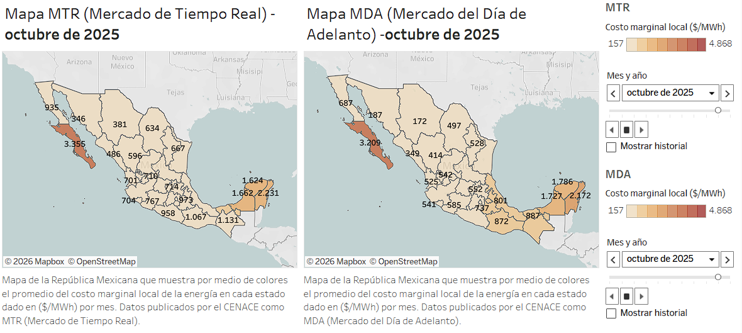
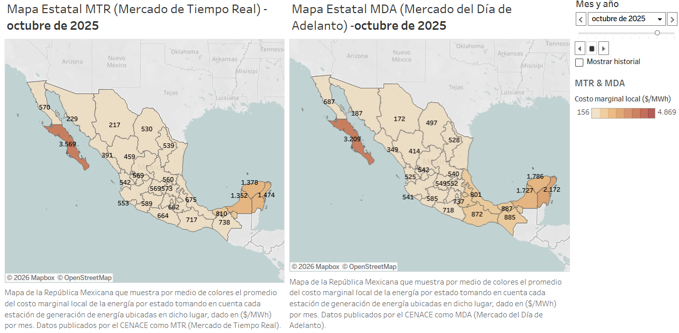
V1.0.3 Manual sin análisis temporal

diff --git a/manual.html b/manual.html
@@ -133,7 +133,6 @@
 						</div>
 						<div class="option-content">
 							<img src="/img/Estructura_WEB.svg" />
-							<br />
 							<ol>
 								<li>
 									<b>Inicio:</b> Esta es la página
@@ -190,7 +189,8 @@
 							</p>
 						</div>
 						<div class="option-content">
-							<ul>
+							<h2>Nivel Estatal</h2>
+							<ul class="manual-sublist">
 								<li>
 									<b>Objetivo:</b> Comparar los precios
 									de la energía del MTR y MDA por mes en
@@ -225,19 +225,72 @@
 								<li>
 									<b>Instrucciones de uso:</b> En la
 									parte derecha del dashboard se
-									encuentran dos filtros que modifican el
-									periodo de observación dado por Mes y
-									Año; el filtro superior modifica el
-									mapa MTR y el filtro inferior modifica
-									el mapa MDA. <br />Abajo del periodo se
-									encuentran tres botones de reproducción
-									que sirven para cambiar automáticamente
-									los periodos y por ende los valores
-									reflejados en los mapas.
+									encuentra un filtro que modifica el
+									periodo de observación de ambos mapas,
+									este filtro está dado por Mes y Año.<br />
+									Abajo del periodo se encuentran tres
+									botones de reproducción que sirven para
+									cambiar automáticamente los periodos y
+									por ende los valores reflejados en los
+									mapas.
 								</li>
 								<img src="/img/visu/MTR&MDA_E_2.png" />
 								<li><b>Ejemplos de uso:</b></li>
 								<img src="/img/visu/MTR&MDA_E_3.png" />
+							</ul>
+							<br />
+							<h2>Nivel Zona de Carga</h2>
+							<ul class="manual-sublist">
+								<li>
+									<b>Objetivo:</b> Comparar los precios
+									de la energía del MTR y MDA por mes en
+									cada zona de carga de la República
+									Mexicana.
+								</li>
+								<li>
+									<b>Contexto de los datos:</b> Los datos
+									para estas visualizaciones fueron
+									obtenidos a través del CENACE (Centro
+									Nacional de Control de Energía)
+									publicados como el MDA (Mercado del Día
+									de Adelanto) y MTR (Mercado del Tiempo
+									Real), en estos se incluyen los tres
+									Sistemas Interconectados existentes en
+									México (SIN, BCA y BCS).
+								</li>
+								<li>
+									<b>Descripción de la visualización:</b>
+									Este dashboard cuenta con dos gráficos
+									de mapa representando la geometría de
+									México en la que se muestran las
+									ubicaciones de las zonas de carga
+									mediante círculos o burbujas , en el
+									lado izquierdo está el mapa que
+									representa por estado los precios de la
+									energía del MTR y del lado derecho el
+									mapa que representa los precios de
+									energía del MDA. El precio dado es por
+									MW/h, este es representado por colores
+									y por tamaño, entre más rojizo y grande
+									sea el círculo o burbuja indica un
+									precio más caro en esa zona de carga.
+								</li>
+								<img src="/img/visu/MTR&MDA_ZC_1.png" />
+								<li>
+									<b>Instrucciones de uso:</b> En la
+									parte derecha del dashboard se
+									encuentra un filtro que modifica el
+									periodo de observación de ambos mapas,
+									este filtro está dado por Mes y Año.<br />
+									Abajo del periodo se encuentran tres
+									botones de reproducción que sirven para
+									cambiar automáticamente los periodos y
+									por ende los valores reflejados en los
+									mapas.
+								</li>
+								<img src="/img/visu/MTR&MDA_ZC_2.png" />
+								<li><b>Ejemplos de uso:</b></li>
+								<img src="/img/visu/MTR&MDA_ZC_3.png" />
 							</ul>
 						</div>
 						<div
@@ -257,10 +310,65 @@
 							</p>
 						</div>
 						<div class="option-content">
-							<p>
-								Agrega aquí la información adicional de
-								esta sección.
-							</p>
+							<ul class="manual-sublist">
+								<li>
+									<b>Objetivo:</b> Comparar los precios
+									de la energía del MDA y MTR por hora en
+									cada zona de carga y estación de
+									generación de energía que participa en
+									ella categorizadas por entidad
+									federativa.
+								</li>
+								<li>
+									<b>Contexto de los datos:</b> Los datos
+									para estas visualizaciones fueron
+									obtenidos a través del CENACE (Centro
+									Nacional de Control de Energía)
+									publicados como el MDA (Mercado del Día
+									de Adelanto) y MTR (Mercado del Tiempo
+									Real), en estos se incluyen los tres
+									Sistemas Interconectados existentes en
+									México (SIN, BCA y BCS).
+								</li>
+								<li>
+									<b>Descripción de la visualización:</b>
+									Este dashboard cuenta con tres
+									gráficos, del lado izquierdo se observa
+									una serie temporal en donde demuestra
+									el cambio del costo de la energía por
+									MW en cada hora, tanto del MDA (línea
+									azul) y MTR (línea verde) haciendo una
+									comparación; en lado derecho se
+									encuentran dos gráficos de barras
+									horizontales, en la parte superior nos
+									indica la desviación relativa media por
+									zona de carga y el gráfico de abajo nos
+									indica también la desviación relativa
+									media pero de las estaciones de
+									generación de energía que participan en
+									dicha zona de carga, estas están
+									identificadas por colores indicando su
+									ubicación en una entidad federativa.
+								</li>
+								<img src="/img/visu/MTR&MDA_Tmp_1.png" />
+								<li>
+									<b>Instrucciones de uso:</b> En la
+									parte superior izquierda del dashboard
+									se encuentran dos filtros que modifican
+									el tiempo de visualización (mes y día),
+									a un lado también se encuentran otros
+									dos filtros que modifican la zona de
+									carga y la clave de identificación de
+									la estación de generación de energía;
+									estos dos últimos filtros mencionados
+									es más cómodo seleccionarlos mediante
+									los gráficos de barras horizontales.
+								</li>
+								<img src="/img/visu/MTR&MDA_Tmp_2.png" />
+								<img src="/img/visu/MTR&MDA_Tmp_3.png" />
+								<li><b>Ejemplos de uso:</b></li>
+								<img src="/img/visu/MTR&MDA_Tmp_4.png" />
+							</ul>
 						</div>
 						<div
 							class="option"
@@ -303,9 +411,41 @@
 						</div>
 						<div class="option-content">
 							<p>
-								Agrega aquí la información adicional de
-								esta sección.
+								Si lo que deseas es compartir una
+								visualización, Tableau Public ofrece 5
+								opciones distintas.
 							</p>
+							<ol>
+								<li>
+									<b>Código para insertar:</b> código
+									HTML que puede insertarse en cualquier
+									página web, tal como se implentó en
+									esta página.
+								</li>
+								<li>
+									<b>Enlace:</b> dirección URL de la
+									visualización en Tableau Public
+									(plataforma en la que se encuentran
+									publicadas cada una de las
+									visualizaciones).
+								</li>
+								<li>
+									<b>Correo:</b> automatiza el envío de
+									la dirección URL por correo
+									electrónico.
+								</li>
+								<li>
+									<b>X:</b> automatiza el envío de la
+									dirección URL que se representa como un
+									tweet en esta red social.
+								</li>
+								<li>
+									<b>Facebook:</b> automatiza el envío de
+									la dirección URL que se representa como
+									una publicación en esta red social.
+								</li>
+							</ol>
+							<img src="/img/visu/Copartir_vzs.png" />
 						</div>
 						<div
 							class="option"
@@ -319,13 +459,37 @@
 									alt="Left arrow"
 								/>
 							</div>
-							<p class="option-title">Descargar datos</p>
+							<p class="option-title">
+								Descargar visualizaciones
+							</p>
 						</div>
 						<div class="option-content">
 							<p>
-								Agrega aquí la información adicional de
-								esta sección.
+								Si lo que deseas es descargar las
+								visualizaciones para un análisis
+								posterior, se pueden descargar de las
+								siguientes tres maneras:
 							</p>
+							<ol>
+								<li>
+									<b>Imagen:</b> te permite descargar la
+									visualización tal cual se muestra en
+									pantalla como si de una captura de
+									pantalla se tratase en formato PNG.
+								</li>
+								<li>
+									<b>PDF:</b> similar al punto 1, te
+									permite descargar la visualización en
+									formato PDF, pero además, seleccionando
+									qué gráficas incluir y el formato de
+									hoja.
+								</li>
+								<li>
+									<b>PowerPoint:</b> similar a los puntos
+									1 y 4, pero en formato PPTX.
+								</li>
+							</ol>
+							<img src="/img/visu/Descargas_vzs.png" />
 						</div>
 					</div>
 				</section>

diff --git a/manual.css b/manual.css
@@ -365,7 +365,7 @@ body {
 	max-width: 100%;
 	height: auto;
 	display: block;
-	margin: 0 auto;
+	margin: 10px auto;
 }
 
 .option-content ol {
@@ -376,6 +376,10 @@ body {
 	padding-left: 24px;
 	margin-top: 6px;
 	list-style-type: disc;
+}
+
+.option-content .manual-sublist li + li {
+	margin-top: 8px;
 }
 
 /* Footer */
